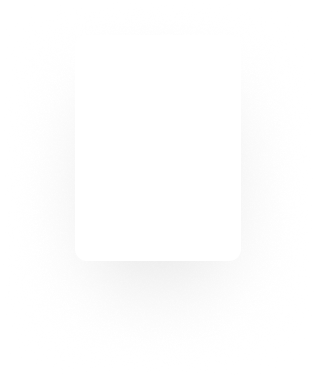
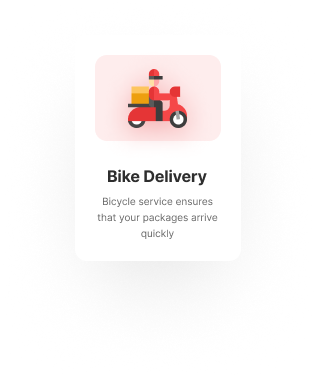
clean up code

Changed region(s): [[0.3418, 0.1755, 0.6551, 0.3803], [0.3133, 0.5266, 0.6835, 0.6436], [0.3418, 0.4388, 0.6551, 0.4973]]

diff --git a/index.html b/index.html
@@ -159,50 +159,70 @@
 
     <div class="why__choose">
       <div class="right__image">
-        <img class="choose__image" src="public\images\choose-us.png" alt="why-choose" />
+        <img
+          class="choose__image"
+          src="public\images\choose-us.png"
+          alt="why-choose"
+        />
       </div>
       <div class="why__choose__text">
         <h1 class="why__choose__text__title">Why Choose Us?.</h1>
-        <h1 class="why__choose__text__subtitle">Find Favorites and <br/> Discover New Ones</h1>
+        <h1 class="why__choose__text__subtitle">
+          Find Favorites and <br />
+          Discover New Ones
+        </h1>
         <div class="desc__text__wrapper">
-         <span class="styled_choice">Freshness Delivered</span> : Enjoy premium quality fruits and vegetables straight to your doorstep, sourced for ultimate freshness.
+          <span class="styled_choice">Freshness Delivered</span> : Enjoy premium
+          quality fruits and vegetables straight to your doorstep, sourced for
+          ultimate freshness.
 
-         <span class="styled_choice">Organic & Healthy Choices</span> : Elevate your well-being with 100% organic and nutritious foods, delivered hassle-free.
-          
-         <span class="styled_choice">Fast & Reliable Service</span> : Experience the convenience of 2-hour delivery and secure checkout for a seamless shopping journey.
+          <span class="styled_choice">Organic & Healthy Choices</span> : Elevate
+          your well-being with 100% organic and nutritious foods, delivered
+          hassle-free.
+
+          <span class="styled_choice">Fast & Reliable Service</span> :
+          Experience the convenience of 2-hour delivery and secure checkout for
+          a seamless shopping journey.
         </div>
-         <div class="call-to-action-choice">
-            <button class="order-button-choice">Explore Now</button>
-          </div>
-         </div>
+        <div class="call-to-action-choice">
+          <button class="order-button-choice">Explore Now</button>
+        </div>
       </div>
     </div>
 
     <div class="delivery__section">
       <div class="left__section">
         <div class="intro__feature">
-          <h1>HOME DELIVERY</h1>
+          <h2>HOME DELIVERY</h2>
         </div>
         <div class="intro__title">
-          <h1>
-          Sit at Home We Will Take Care Your Order
-         </h1>
+          <h3>
+            Sit at Home We Will Take Care Your Order
+          </h3>
         </div>
         <div class="delivery__body__text">
           <p>
-            At vero eos et accusamus et iusto odio dignissimos<br/> ducimus qui blanditiis praesentium voluptatum <br/> deleniti atque corrupti quos 
+            At vero eos et accusamus et iusto odio dignissimos<br />
+            ducimus qui blanditiis praesentium voluptatum <br />
+            deleniti atque corrupti quos
           </p>
         </div>
         <div class="delivery__callTo__action">
           <button>
-              Explore Now
+            Explore Now
           </button>
         </div>
       </div>
-       <div class="right__section">
-        <img src="public\images\image and card.png" alt="cheese">
-       </div>
-      
+      <div class="right__section">
+        <img
+          class="cheece__image"
+          src="public\images\image and card.png"
+          alt="cheese"
+        />
+        <div class="bike__delivery">
+          <img src="public\images\bike-delivery.png" alt="bike-delivery" />
+        </div>
+      </div>
     </div>
   </body>
 </html>

diff --git a/styles.css b/styles.css
@@ -312,9 +312,60 @@ text-transform: capitalize;
   border: none;
   margin-top: 2rem;
 }
-
-
-
+.delivery__section{
+  display: flex;
+  max-width: 80%;
+  margin: 0 auto;
+  padding-top: 5.5rem;
+  gap: 9rem;
+  align-items: center;
+  padding-bottom: 5.5rem;
+}
+.intro__feature{
+  color: #F9BA45;
+  font-family: "inter", sans-serif;
+font-size: 1.1rem;
+font-style: normal;
+font-weight: 400;
+line-height: 24px; /* 133.333% */
+letter-spacing: 0.18px;
+}
+.intro__title{
+  color: #2E2E2E;
+font-family: Poppins;
+font-size: 2.5rem;
+font-style: normal;
+font-weight: 700;
+line-height: 54px; /* 135% */
+text-transform: capitalize;
+}
+.delivery__body__text{
+  color: #676767;
+font-family: Poppins;
+font-size: 1.13rem;
+font-style: normal;
+font-weight: 400;
+line-height: 1.8rem; /* 166.667% */
+}
+.delivery__callTo__action button{
+  border-radius: 12px;
+border: 1.5px solid #F86061;
+padding: 1rem 2rem;
+margin-top: 2rem;
+background-color: #ffffff;
+}
+.cheese__image{
+  max-width: 42.7rem;
+  max-height: 41.4rem;
+}
+.right__sectio{
+  position: relative;
+}
+.bike__delivery{
+  position: absolute;
+  top: o;
+  left: 0;
+}
 
 
 
